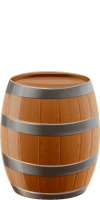
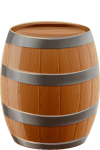
Chat Room Map - Save Last Map + New Decorations

diff --git a/BondageClub/Screens/Online/ChatRoom/ChatRoomMap.js b/BondageClub/Screens/Online/ChatRoom/ChatRoomMap.js
@@ -48,15 +48,19 @@ var ChatRoomMapTileList = [
 var ChatRoomMapObjectList = [
 
 	{ ID: 0, Type: "FloorDecoration", Style: "Blank" },
-	{ ID: 10, Type: "FloorDecoration", Style: "Pillow" },
-	{ ID: 20, Type: "FloorDecoration", Style: "Locker", Top: -1, Height: 2, Speed: 0.5 },
-	{ ID: 30, Type: "FloorDecoration", Style: "XCross", Top: -1, Height: 2, Speed: 0.5 },
+	{ ID: 10, Type: "FloorDecoration", Style: "Bed", Top: -0.25 },
+	{ ID: 20, Type: "FloorDecoration", Style: "Pillow" },
+	{ ID: 30, Type: "FloorDecoration", Style: "Kennel", Top: -1, Height: 2, Speed: 0.5 },
+	{ ID: 40, Type: "FloorDecoration", Style: "XCross", Top: -1, Height: 2, Speed: 0.5 },
+	{ ID: 50, Type: "FloorDecoration", Style: "Locker", Top: -1, Height: 2, Speed: 0.5 },
+	{ ID: 60, Type: "FloorDecoration", Style: "Coffin", Top: -1, Height: 2, Speed: 0.5 },
 
 	{ ID: 1000, Type: "FloorObstacle", Style: "Blank" },
 	{ ID: 1010, Type: "FloorObstacle", Style: "Statue", Top: -1, Height: 2 },
-	{ ID: 1020, Type: "FloorObstacle", Style: "Barrel", Top: -1, Height: 2 },
-	{ ID: 1030, Type: "FloorObstacle", Style: "OakTree", Top: -1, Height: 2 },
-	{ ID: 1040, Type: "FloorObstacle", Style: "PineTree", Top: -1, Height: 2 },
+	{ ID: 1020, Type: "FloorObstacle", Style: "Barrel", Top: -0.5, Height: 1.5 },
+	{ ID: 1030, Type: "FloorObstacle", Style: "IronBars", Top: -1, Height: 2 },
+	{ ID: 1040, Type: "FloorObstacle", Style: "OakTree", Left: -0.25, Top: -1.5, Width: 1.5, Height: 2.5 },
+	{ ID: 1050, Type: "FloorObstacle", Style: "PineTree", Top: -1, Height: 2 },
 
 	{ ID: 2000, Type: "WallDecoration", Style: "Blank" },
 	{ ID: 2010, Type: "WallDecoration", Style: "Painting" },
@@ -326,7 +330,7 @@ function ChatRoomMapUpdateFlag() {
 
 				// Invalid tiles and invalid objects for that tile must be cleared
 				if (Tile == null) ClearObject = true;
-				else if ((Obj.Type == "FloorDeoration") && (Tile.Type != "Floor")) ClearObject = true;
+				else if ((Obj.Type == "FloorDecoration") && (Tile.Type != "Floor")) ClearObject = true;
 				else if ((Obj.Type == "FloorObstacle") && (Tile.Type != "Floor")) ClearObject = true;
 				else if ((Obj.Type == "WallDecoration") && (Tile.Type != "Wall")) ClearObject = true;
 				else if ((Obj.Type == "WallPath") && (Tile.Type != "Wall")) ClearObject = true;

diff --git a/BondageClub/Screens/Online/ChatRoom/ChatRoom.js b/BondageClub/Screens/Online/ChatRoom/ChatRoom.js
@@ -93,6 +93,7 @@ var ChatRoomLastBan = [];
 /** @type {string[]} */
 var ChatRoomLastBlockCategory = [];
 var ChatRoomLastSpace = "";
+var ChatRoomLastMapData = null;
 /** @type {ServerChatRoomData | null} */
 var ChatRoomNewRoomToUpdate = null;
 var ChatRoomNewRoomToUpdateTimer = 0;
@@ -1464,6 +1465,8 @@ function ChatRoomSetLastChatRoom(room) {
 				Player.LastChatRoomBlockCategory = [...ChatRoomData.BlockCategory];
 			if (ChatRoomData)
 				Player.LastChatRoomSpace = ChatRoomSpace;
+			if (ChatRoomData)
+				Player.LastChatRoomMapData = ChatRoomData.MapData;
 
 			ChatRoomLastName = ChatRoomData.Name;
 			ChatRoomLastBG = ChatRoomData.Background;
@@ -1476,6 +1479,7 @@ function ChatRoomSetLastChatRoom(room) {
 			ChatRoomLastBan = ChatRoomData.Ban;
 			ChatRoomLastBlockCategory = [...ChatRoomData.BlockCategory];
 			ChatRoomLastSpace = ChatRoomSpace;
+			ChatRoomLastMapData = ChatRoomData.MapData;
 		}
 	} else {
 		Player.LastChatRoomBG = "";
@@ -1490,6 +1494,7 @@ function ChatRoomSetLastChatRoom(room) {
 		ChatRoomLastBan = [];
 		ChatRoomLastBlockCategory = [];
 		ChatRoomLastSpace = "";
+		ChatRoomLastMapData = null;
 	}
 	Player.LastChatRoom = room;
 	var P = {
@@ -1504,6 +1509,7 @@ function ChatRoomSetLastChatRoom(room) {
 		LastChatRoomBan: Player.LastChatRoomBan.toString(),
 		LastChatRoomBlockCategory: [...Player.LastChatRoomBlockCategory],
 		LastChatRoomSpace: Player.LastChatRoomSpace,
+		LastChatRoomMapData: Player.LastChatRoomMapData
 	};
 	ServerAccountUpdate.QueueData(P);
 }
@@ -4984,7 +4990,8 @@ function ChatRoomDataChanged() {
 		!CommonArraysEqual(ChatRoomLastAdmin, ChatRoomData.Admin) ||
 		!CommonArraysEqual(ChatRoomLastBan, ChatRoomData.Ban) ||
 		!CommonArraysEqual(ChatRoomLastBlockCategory, ChatRoomData.BlockCategory) ||
-		ChatRoomLastSpace != ChatRoomSpace;
+		ChatRoomLastSpace != ChatRoomSpace ||
+		JSON.stringify(ChatRoomLastMapData) != JSON.stringify(ChatRoomData.MapData);
 }
 
 function ChatRoomRefreshFontSize() {

diff --git a/BondageClub/Screens/Character/Preference/Preference.js b/BondageClub/Screens/Character/Preference/Preference.js
@@ -525,6 +525,7 @@ function PreferenceInitPlayer() {
 	if (!C.LastChatRoomBan) C.LastChatRoomBan = [];
 	if (!C.LastChatRoomBlockCategory) C.LastChatRoomBlockCategory = [];
 	if (typeof C.LastChatRoomSpace !== "string") C.LastChatRoomSpace = ChatRoomSpaceType.MIXED;
+	if (typeof C.LastChatRoomMapData !== "object") C.LastChatRoomMapData = null;
 
 	// Restriction settings
 	// @ts-ignore: Individual properties validated separately

diff --git a/BondageClub/Screens/Character/Login/Login.js b/BondageClub/Screens/Character/Login/Login.js
@@ -695,6 +695,7 @@ function LoginResponse(C) {
 				Player.LastChatRoomBan = CommonConvertStringToArray(C.LastChatRoomBan);
 			Player.LastChatRoomBlockCategory = C.LastChatRoomBlockCategory;
 			Player.LastChatRoomSpace = C.LastChatRoomSpace;
+			Player.LastChatRoomMapData = C.LastChatRoomMapData;
 
 			// Loads the ownership data
 			Player.Ownership = C.Ownership;

diff --git a/BondageClub/Screens/Online/ChatSearch/ChatSearch.js b/BondageClub/Screens/Online/ChatSearch/ChatSearch.js
@@ -834,6 +834,7 @@ function ChatSearchAutoJoinRoom() {
 						Background: Player.LastChatRoomBG,
 						Private: Player.LastChatRoomPrivate,
 						Space: Player.LastChatRoomSpace,
+						MapData: Player.LastChatRoomMapData,
 						Game: "",
 						Admin: [Player.MemberNumber],
 						Limit: Math.min(Math.max(Player.LastChatRoomSize, 2), 10).toString(),

diff --git a/BondageClub/Scripts/Typedef.d.ts b/BondageClub/Scripts/Typedef.d.ts
@@ -1506,6 +1506,7 @@ interface PlayerCharacter extends Character {
 	LastChatRoomBlockCategory?: ServerChatRoomBlockCategory[];
 	LastChatRoomTimer?: any;
 	LastChatRoomSpace?: ServerChatRoomSpace;
+	LastChatRoomMapData? : any;
 	RestrictionSettings?: {
 		BypassStruggle: boolean;
 		SlowImmunity: boolean;
